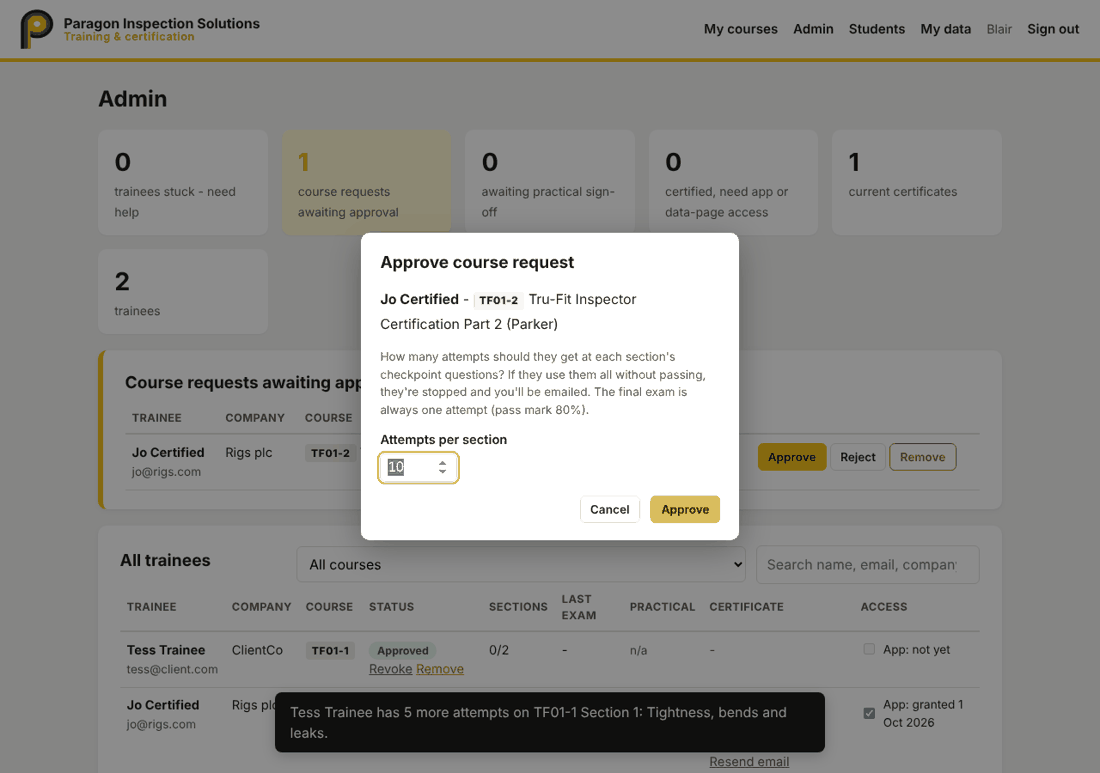
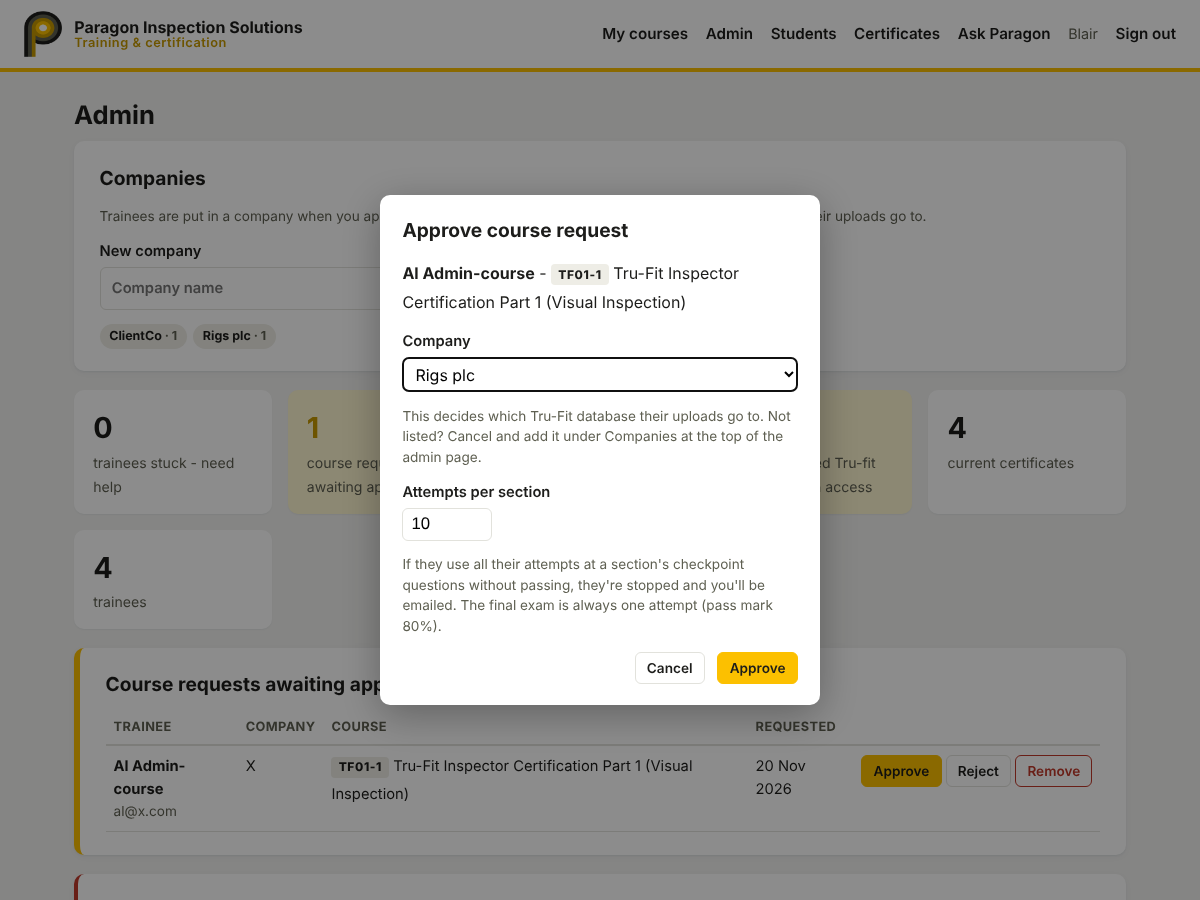
Showcase: companies, certificate changes and re-issue, employer database warning, section videos, course descriptions

diff --git a/README.md b/README.md
@@ -11,12 +11,13 @@ An online training and certification system I built for **Paragon Inspection Sol
 ## What it does
 
 **For trainees**
-- Sign up and request courses. Each course is approved separately by an admin, who sets the number of attempts allowed.
-- Work through each course section by section in a locked-down viewer. Course PDFs are drawn onto the page with no download or print option, a watermark shows the trainee's name, and a hover magnifier helps with detailed inspection images.
+- Sign up and request courses, reading an **About this course** panel for each (introduction, learning objectives and FAQs). Each course is approved separately by an admin, who assigns the trainee to their company and sets the number of attempts allowed.
+- Work through each course section by section in a locked-down viewer. Sections can open with an **embedded training video** alongside numbered step-by-step instructions. Course PDFs are drawn onto the page with no download or print option, a watermark shows the trainee's name, and a hover magnifier helps with detailed inspection images.
 - Take a photo at the start of each course to confirm identity.
 - Answer checkpoint questions to unlock the next section. Attempts are limited and questions are shuffled on every attempt.
 - Sit a single-attempt final exam with an 80% pass mark. Exams are marked on the server, so the answers never reach the browser.
 - Receive a **Certificate of Training** and a **Certificate of Examination** as PDFs by email. The examination certificate has an expiry date and a renewal window.
+- Can't start training until Paragon has placed them in their company, because the company decides which Tru-Fit database their inspection uploads go to.
 - Send Paragon a request through **Ask Paragon**: help with a course, a copy of a course, a reasonable adjustment, or a data request.
 
 **For administrators**
@@ -27,27 +28,32 @@ An online training and certification system I built for **Paragon Inspection Sol
   - access to grant;
   - emails that failed to send;
   - requests from trainees.
+- A **company list** managed by admins. Trainees are placed in a company when their course is approved, and a course can't be approved without one.
+- A **Certificates** area: when an inspector changes employer or name, an admin updates all their certificates in one go. Certificate numbers, issue dates and expiry dates are preserved, the PDFs are **re-issued and emailed automatically**, and every change is recorded with who made it, when and why.
 - Access rules worked out automatically. Tru-fit app access is only granted once a trainee holds Part 1 and a Part 2. System-admin training (AU01) grants Tru-fit administrator access instead.
 - A full student record:
   - progress, and attempts used on each section;
   - every answer given;
   - start photos;
   - certificates, which can be withdrawn with a reason;
-  - an **audit log** of every admin action.
+  - an **audit log** of every admin action;
+  - a history of name and company changes.
 - A one-click **PDF training record** for audits.
 - Housekeeping for data retention (expired photos, inactive accounts).
 
 **For clients and employers**
-- A public **certificate verification page**. Enter the certificate number to see whether it is valid, expired or withdrawn.
+- A public **certificate verification page**. Enter the certificate number to see whether it is valid, expired or withdrawn, the holder's company, and when the company was last updated.
+- A clear warning, on the verification page and on the certificate itself, that the company shown is the Tru-Fit database the holder's inspections upload to, so a new employer knows to contact Paragon before any data is uploaded.
 
 ## Screenshots
 
 | | |
 |---|---|
 | ![Admin dashboard](screenshots/admin-dashboard.png) **Admin dashboard**: everything waiting for action | ![Student record](screenshots/student-record.png) **Student record**: progress, attempts, certificates, audit log |
-| ![Approve a course](screenshots/approve-course.png) **Approving a course request** and setting attempt limits | ![Trainee course page](screenshots/trainee-course.png) **Trainee course page** |
-| ![Certificates](screenshots/certificates.png) **Generated certificates** (PDF) | ![Verify a certificate](screenshots/verify-certificate.png) **Public verification**: withdrawn certificate |
-| ![Ask Paragon](screenshots/ask-paragon.png) **Ask Paragon**: help, course copies, adjustments and data requests | |
+| ![Approve a course](screenshots/approve-course.png) **Approving a course request**: choosing the trainee's company and attempt limits | ![Trainee course page](screenshots/trainee-course.png) **Trainee course page** |
+| ![Certificate PDF](screenshots/certificate-pdf.png) **Generated certificate** (PDF) with the Tru-Fit database notice | ![Verify a certificate](screenshots/verify-certificate.png) **Public verification** with the employer warning |
+| ![Certificate changes](screenshots/certificate-changes.png) **Certificates area**: change company or name, re-issue, change history | ![Section video](screenshots/section-video.png) **Course section** with an embedded video and step-by-step instructions |
+| ![Ask Paragon](screenshots/ask-paragon.png) **Ask Paragon**: help, course copies, adjustments and data requests | ![Certificates](screenshots/certificates.png) **Certificates of training and examination** |
 
 ## How it's built
 
@@ -64,11 +70,12 @@ flowchart LR
 
 | Layer | Technology |
 |---|---|
-| Front end | Plain JavaScript single-page app (no framework), PDF.js for the secure viewer, jsPDF for training records |
+| Front end | Plain JavaScript single-page app (no framework), PDF.js for the secure viewer (cached in the browser and refreshed when a course file changes), jsPDF for training records, privacy-enhanced YouTube embeds |
 | Hosting | Netlify, with a strict Content Security Policy and security headers |
 | Database & auth | Supabase (PostgreSQL), email/password auth, row-level security on every table |
 | Server logic | PostgreSQL functions (security definer) for marking, attempt limits, certificates and access rules |
-| Background jobs | Supabase Edge Function (Deno/TypeScript): certificate PDFs, all emails, failure logging |
+| Background jobs | Supabase Edge Function (Deno/TypeScript): certificate PDFs, re-issues, all emails, failure logging |
+| Bot protection | Cloudflare Turnstile on sign-up, sign-in and password reset |
 | Email | Google Workspace SMTP via nodemailer |
 
 ## Security and data protection highlights
@@ -76,12 +83,11 @@ flowchart LR
 - **Server-side marking.** Correct answers are hidden from trainees at database level. Scores, attempt limits and pass marks are enforced in PostgreSQL, not the browser.
 - **Row-level security.** Trainees can only ever read their own records. Admin actions go through checked functions.
 - **Gated course content.** Course files only open for approved trainees who have completed the identity photo step.
-- **Tamper-evident certificates.** Each has a unique number, can be checked publicly, and can be withdrawn.
+- **Tamper-evident certificates.** Each has a unique number, can be checked publicly, and can be withdrawn. Changes to the name or company on a certificate are logged and shown on the public check.
 - **Audit trail.** Every admin action records who did it and when.
 - **Privacy by design.** The platform supports:
   - a privacy notice and terms acceptance (versioned);
-  - self-service data export;
-  - data requests with reply-by tracking;
+  - data requests (copy, correction, deletion) with reply-by tracking;
   - retention housekeeping;
   - UK GDPR and Data (Use and Access) Act complaint handling.
 - **Hardened emails.** Webhooks are authenticated with a secret held only in the database, and every send or failure is logged and shown to admins.
